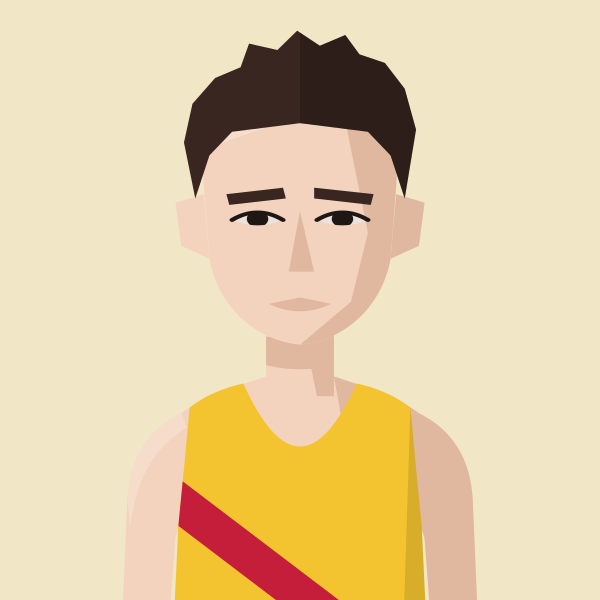
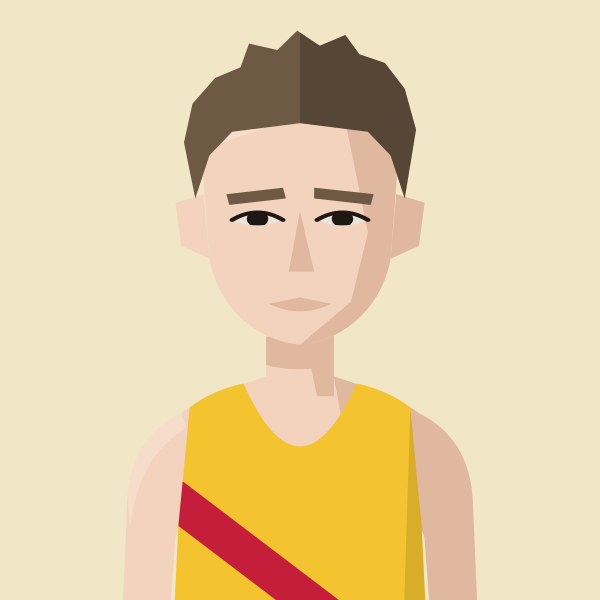
Athletes list: sticky header (and sticky name column on mobile); Cornish mousier hair
Claude-Session: https://claude.ai/code/session_01MgmDWhFqnSSnP4iBLKXUZC

Changed region(s): [[0.3, 0.03, 0.69, 0.33], [0.51, 0.3, 0.63, 0.36], [0.36, 0.3, 0.48, 0.36]]

diff --git a/files/index.html b/files/index.html
@@ -594,7 +594,7 @@ return m;})();
 const portraitFile=(name,club)=>{const k=normalizeNameForCompare(name||'').replace(/\s*\(([^)]*)\)$/,(m,c)=>CLUBS[c.toUpperCase()]?'':m);const a=PORTRAITS[k];if(a&&a.club===club)return a.file;const b=PORTRAITS[k+'@'+club];return b?b.file:null;};
 // Athlete header figure: superstar portrait if we have one, else a grey runner in the club vest, else the plain vest icon
 // Changes whenever any portrait changes (set by tools/build_og.py), so browsers fetch fresh images instead of old cached ones
-const PORTRAIT_V='e5b6a308';
+const PORTRAIT_V='647a90f8';
 const AthletePortrait=({name,club,w,fill,onClick})=>{const[failed,setFailed]=useState(false);const file=portraitFile(name,club);const src=file?`/portraits/athletes/${file}.svg?v=${PORTRAIT_V}`:PORTRAIT_CLUBS.has(club)?`/portraits/clubs/${club.replace(/\//g,'').replace(/&/g,'and')}.svg?v=${PORTRAIT_V}`:null;if(!src||failed)return<div onClick={onClick} className={onClick?'cursor-pointer':''}><ClubShield club={club} size={w}/></div>;const h=Math.round(w*148/126),ih=Math.round(w*1.4);if(fill)return<div onClick={onClick} className="cursor-pointer" style={{alignSelf:'stretch',minHeight:h,aspectRatio:'126 / 148',flexShrink:0,position:'relative',borderRadius:4,overflow:'hidden'}}><img src={src} alt={file?`Portrait of ${name.replace(/\s*\([^)]*\)$/,'')}`:`Runner in ${CLUBS[club]?.name||club} vest`} style={{position:'absolute',top:0,left:0,display:'block',width:'100%',height:'auto'}} onError={()=>setFailed(true)}/></div>;return<div style={{width:w,height:h,borderRadius:4,overflow:'hidden',flexShrink:0}}><img src={src} alt={file?`Portrait of ${name.replace(/\s*\([^)]*\)$/,'')}`:`Runner in ${CLUBS[club]?.name||club} vest`} width={w} height={ih} style={{display:'block',width:w,height:ih}} onError={()=>setFailed(true)}/></div>;};
 const getClubVestSvg=(club)=>{
   const p="M3 0 L6 0 Q7 4 10 5 Q13 4 14 0 L17 0 L17 20 L3 20 Z";
@@ -1117,7 +1117,7 @@ const AthletesView=({setView,athletes})=>{
   }),[filtered,sort]);
   const cols=[{f:'wins',l:'W',t:'Race wins'},{f:'top3',l:'T3',t:'Top 3 finishes'},{f:'top5',l:'T5',t:'Top 5 finishes'},{f:'top10',l:'T10',t:'Top 10 finishes'},{f:'top20',l:'T20',t:'Top 20 finishes'},{f:'top50',l:'T50',t:'Top 50 finishes'},{f:'top100',l:'T100',t:'Top 100 finishes'},{f:'races',l:'R',t:'Total races'}];
   let bustN=0;if(!search){while(bustN<3&&sorted[bustN]&&portraitFile(sorted[bustN].name,sorted[bustN].club))bustN++;}
-  return<div className="max-w-5xl mx-auto px-4 py-8"><div className="mb-6"><input type="text" placeholder={`Search ${filtered.length.toLocaleString()} athletes...`} value={search} onChange={e=>{setSearch(e.target.value);setLimit(100);}} className="px-3 py-2 border border-gray-300 rounded text-sm w-full sm:w-72 focus:outline-none focus:ring-2 focus:ring-[#1b649e]"/></div><div className="overflow-x-auto"><table className="w-full max-w-3xl"><thead><tr className="border-b border-gray-200"><th className="text-left py-1.5 pr-2"><span className="text-xs text-gray-500 uppercase">Athlete</span></th>{cols.map(c=><th key={c.f} className="text-right py-1.5 px-1 md:px-2 min-w-[2rem] md:min-w-[2.5rem]"><button onClick={()=>setSort(c.f)} className={`text-xs uppercase ${sort===c.f?'text-[#1b649e] font-semibold':'text-gray-500'}`} data-tip={c.t}>{c.l}</button></th>)}</tr></thead><tbody>{sorted.slice(0,limit).map((a,i)=><tr key={a.name} className="border-b border-gray-50 hover:bg-gray-100 cursor-pointer" onClick={()=>setView({type:'athlete',athlete:a})}><td className="py-1.5 pr-2"><div className="flex items-center gap-1.5 md:gap-2"><span className="text-gray-500 text-sm w-7 text-right tabular-nums flex-shrink-0">{i+1}</span>{i<bustN?<ListBust name={a.name} club={a.club}/>:<ClubShield club={a.club} size={14} className="flex-shrink-0"/>}<span className="text-sm text-gray-900 whitespace-nowrap">{a.name}</span></div></td>{cols.map(c=><td key={c.f} className={`text-right py-1.5 px-1 md:px-2 text-sm tabular-nums ${sort===c.f?'font-semibold text-[#1b649e]':'text-gray-600'} ${a[c.f]===0?'text-gray-300':''}`}>{a[c.f]||'-'}</td>)}</tr>)}</tbody></table></div>{sorted.length>limit&&<div className="mt-4 text-center"><button onClick={()=>setLimit(l=>l+100)} className="px-4 py-2 bg-[#1b649e] text-white rounded text-sm hover:bg-[#134d7a]">Show more ({sorted.length-limit} remaining)</button></div>}</div>;
+  return<div className="max-w-5xl mx-auto px-4 py-8"><div className="mb-6"><input type="text" placeholder={`Search ${filtered.length.toLocaleString()} athletes...`} value={search} onChange={e=>{setSearch(e.target.value);setLimit(100);}} className="px-3 py-2 border border-gray-300 rounded text-sm w-full sm:w-72 focus:outline-none focus:ring-2 focus:ring-[#1b649e]"/></div><div className="max-md:overflow-auto max-md:max-h-[calc(100svh-65px)]"><table className="w-full max-w-3xl"><thead><tr><th className="text-left py-1.5 pr-2 sticky top-0 bg-white z-10 shadow-[inset_0_-1px_0_#e5e7eb] max-md:left-0 max-md:z-20"><span className="text-xs text-gray-500 uppercase">Athlete</span></th>{cols.map(c=><th key={c.f} className="text-right py-1.5 px-1 md:px-2 min-w-[2rem] md:min-w-[2.5rem] sticky top-0 bg-white z-10 shadow-[inset_0_-1px_0_#e5e7eb]"><button onClick={()=>setSort(c.f)} className={`text-xs uppercase ${sort===c.f?'text-[#1b649e] font-semibold':'text-gray-500'}`} data-tip={c.t}>{c.l}</button></th>)}</tr></thead><tbody>{sorted.slice(0,limit).map((a,i)=><tr key={a.name} className="border-b border-gray-50 hover:bg-gray-100 cursor-pointer" onClick={()=>setView({type:'athlete',athlete:a})}><td className="py-1.5 pr-2 max-md:sticky max-md:left-0 max-md:z-[5] max-md:bg-white"><div className="flex items-center gap-1.5 md:gap-2"><span className="text-gray-500 text-sm w-7 text-right tabular-nums flex-shrink-0">{i+1}</span>{i<bustN?<ListBust name={a.name} club={a.club}/>:<ClubShield club={a.club} size={14} className="flex-shrink-0"/>}<span className="text-sm text-gray-900 whitespace-nowrap">{a.name}</span></div></td>{cols.map(c=><td key={c.f} className={`text-right py-1.5 px-1 md:px-2 text-sm tabular-nums ${sort===c.f?'font-semibold text-[#1b649e]':'text-gray-600'} ${a[c.f]===0?'text-gray-300':''}`}>{a[c.f]||'-'}</td>)}</tr>)}</tbody></table></div>{sorted.length>limit&&<div className="mt-4 text-center"><button onClick={()=>setLimit(l=>l+100)} className="px-4 py-2 bg-[#1b649e] text-white rounded text-sm hover:bg-[#134d7a]">Show more ({sorted.length-limit} remaining)</button></div>}</div>;
 };
 
 const StatsTable=({stats})=>{

diff --git a/tools/gen_portraits.py b/tools/gen_portraits.py
@@ -573,7 +573,7 @@ save("bob-rayman", figure("H/W", skin=1, hair="tousled", hair_colour="dark brown
 save("pete-mulholland", figure("H/W", skin=1, hair="quiff", hair_colour="light brown"))
 save("charlie-eastaugh", figure("H/W", skin=1, hair="crop", hair_colour="light brown", cap="#F2F1EC", jaw="square"))
 save("oli-carrington", figure("H/W", skin=1, hair="tousled", hair_colour="mid brown", facial="shortbeard", facial_colour="mid brown"))
-save("jonathan-cornish", figure("H/W", skin=1, hair="tousled", hair_colour="dark brown"))
+save("jonathan-cornish", figure("H/W", skin=1, hair="tousled", hair_colour="#6E5A44"))
 save("gerry-north", figure("BEL", skin=1, hair="quiff", hair_colour="dark brown"))
 save("steve-gardner", figure("BEL", skin=1, hair="tousled", hair_colour="#3A2A22", facial="stubble", jacket=("#2E3238", "#23262B", None)))
 save("alex-yee", figure("KEN", skin=2, hair="quiff", hair_colour="#4A3022", medal="gold"))
